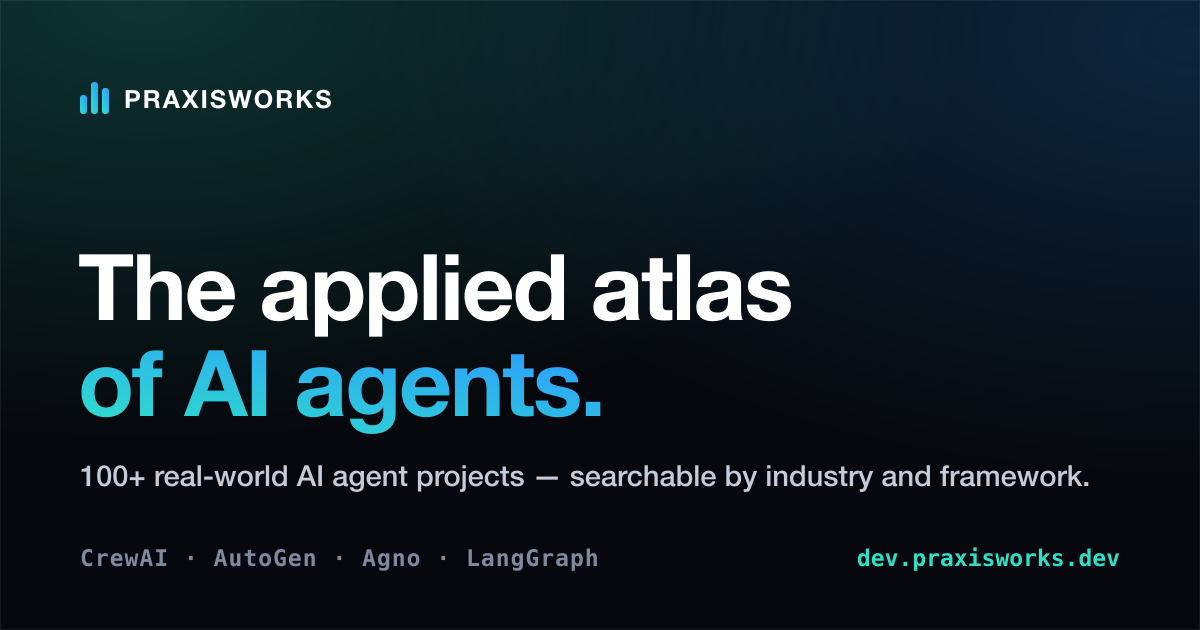
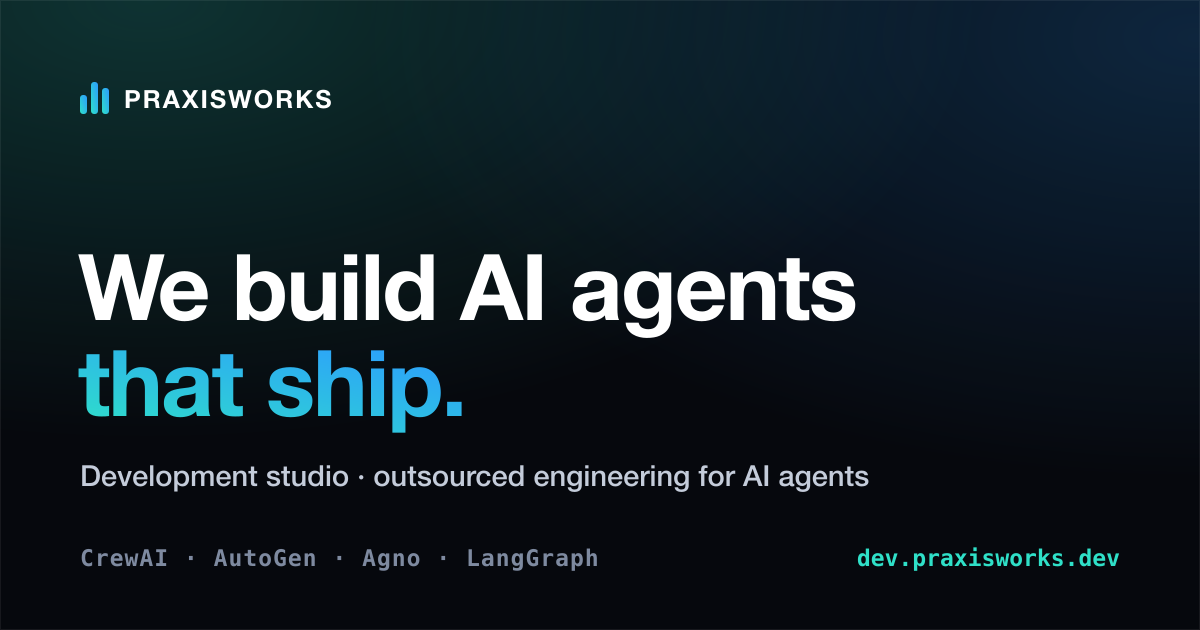
Reframe copy as a development studio (PraxisWorks = dev outsourcing)
PraxisWorks is a development-outsourcing studio, not an "agents atlas" product.
Lead with the service; reposition the agent atlas as the field it builds in.
- Hero: "We build AI agents that ship" + dev-studio / outsourced-engineering sub
- Work section -> "the field we build in"; contact -> "Start a project"
- Updated title, description, OG/Twitter meta, and the OG image to match

Changed region(s): [[0.0617, 0.3921, 0.7092, 0.6937], [0.0617, 0.7238, 0.925, 0.7841]]

diff --git a/src/App.tsx b/src/App.tsx
@@ -129,27 +129,27 @@ function App() {
         <div className="hero-grain" aria-hidden="true" />
         <div className="hero-inner">
           <p className="kicker rise" style={{ animationDelay: '.05s' }}>
-            <span className="dot" /> PRAXISWORKS
+            <span className="dot" /> PRAXISWORKS · DEVELOPMENT STUDIO
           </p>
           <h1 className="rise" style={{ animationDelay: '.14s' }}>
-            The applied atlas
+            We build <span className="grad">AI agents</span>
             <br />
-            of <span className="grad">AI agents</span>.
+            that ship.
           </h1>
           <p className="hero-sub rise" style={{ animationDelay: '.24s' }}>
-            PraxisWorks curates {TOTAL}+ real-world AI agent projects — working code across industries and
-            frameworks. From practice, not slideware.
+            PraxisWorks is a development studio. We design, build, and ship AI agents — and the production
+            software around them — as your outsourced engineering team.
           </p>
           <div className="hero-cta rise" style={{ animationDelay: '.34s' }}>
             <a className="btn primary" href="#work">
               See the work
             </a>
             <a className="btn ghost" href={`mailto:${CONTACT}`}>
-              Get in touch
+              Start a project
             </a>
           </div>
           <p className="hero-meta rise" style={{ animationDelay: '.46s' }}>
-            {TOTAL} projects · CrewAI · AutoGen · Agno · LangGraph
+            Outsourced engineering · AI agents · production software
           </p>
         </div>
         <a className="hero-scroll" href="#work" aria-label="Scroll to work">
@@ -159,11 +159,11 @@ function App() {
 
       <section className="work" id="work">
         <div className="section-head reveal">
-          <p className="eyebrow">SELECTED WORK</p>
-          <h2>A working showcase of AI agents</h2>
+          <p className="eyebrow">THE FIELD WE BUILD IN</p>
+          <h2>A working atlas of AI agents</h2>
           <p className="section-sub">
-            A hand-picked slice across CrewAI, AutoGen, Agno and LangGraph — every card links to a working
-            repo or notebook.
+            The landscape we work in — a curated slice of {TOTAL}+ real-world agent projects across CrewAI,
+            AutoGen, Agno and LangGraph. Every card links to working code.
           </p>
         </div>
         <div className="grid">
@@ -187,9 +187,10 @@ function App() {
       <section className="cta" id="contact">
         <div className="reveal">
           <p className="eyebrow">CONTACT</p>
-          <h2>Work with PraxisWorks.</h2>
+          <h2>Start a project.</h2>
           <p className="section-sub">
-            Building with AI agents, or want a curated atlas for your team? Say hello.
+            Need an outsourced team to design and ship AI agents — or the software around them? Tell us what
+            you're building.
           </p>
           <a className="btn primary" href={`mailto:${CONTACT}`}>
             {CONTACT}
@@ -203,7 +204,8 @@ function App() {
             PRAXIS<em>WORKS</em>
           </span>
           <p>
-            The applied atlas of AI agents. Curated from the open-source{' '}
+            A development studio building AI agents and the products around them. Atlas curated from the
+            open-source{' '}
             <a href={UPSTREAM} target="_blank" rel="noopener noreferrer">
               500 AI Agents Projects
             </a>{' '}

diff --git a/index.html b/index.html
@@ -8,7 +8,7 @@
     <link rel="canonical" href="https://dev.praxisworks.dev/" />
     <meta
       name="description"
-      content="The applied atlas of AI agents — explore 100+ real-world AI agent projects by industry and framework (CrewAI, AutoGen, Agno, LangGraph). Curated by PraxisWorks."
+      content="PraxisWorks is a development studio — we design, build, and ship AI agents and the production software around them, as your outsourced engineering team."
     />
     <meta name="theme-color" content="#06080d" />
     <link rel="preconnect" href="https://fonts.googleapis.com" />
@@ -16,28 +16,28 @@
 
     <!-- Open Graph -->
     <meta property="og:site_name" content="PraxisWorks" />
-    <meta property="og:title" content="PraxisWorks — The Applied Atlas of AI Agents" />
+    <meta property="og:title" content="PraxisWorks — We build AI agents that ship" />
     <meta
       property="og:description"
-      content="Explore 100+ real-world AI agent projects by industry and framework. CrewAI · AutoGen · Agno · LangGraph."
+      content="A development studio. We design, build, and ship AI agents — and the software around them — as your outsourced engineering team."
     />
     <meta property="og:type" content="website" />
     <meta property="og:url" content="https://dev.praxisworks.dev/" />
     <meta property="og:image" content="https://dev.praxisworks.dev/og.png" />
     <meta property="og:image:width" content="1200" />
     <meta property="og:image:height" content="630" />
-    <meta property="og:image:alt" content="PraxisWorks — The Applied Atlas of AI Agents" />
+    <meta property="og:image:alt" content="PraxisWorks — development studio building AI agents" />
 
     <!-- Twitter -->
     <meta name="twitter:card" content="summary_large_image" />
-    <meta name="twitter:title" content="PraxisWorks — The Applied Atlas of AI Agents" />
+    <meta name="twitter:title" content="PraxisWorks — We build AI agents that ship" />
     <meta
       name="twitter:description"
-      content="Explore 100+ real-world AI agent projects by industry and framework."
+      content="A development studio building AI agents and the software around them."
     />
     <meta name="twitter:image" content="https://dev.praxisworks.dev/og.png" />
 
-    <title>PraxisWorks — The Applied Atlas of AI Agents</title>
+    <title>PraxisWorks — We build AI agents that ship</title>
   </head>
   <body>
     <div id="root"></div>